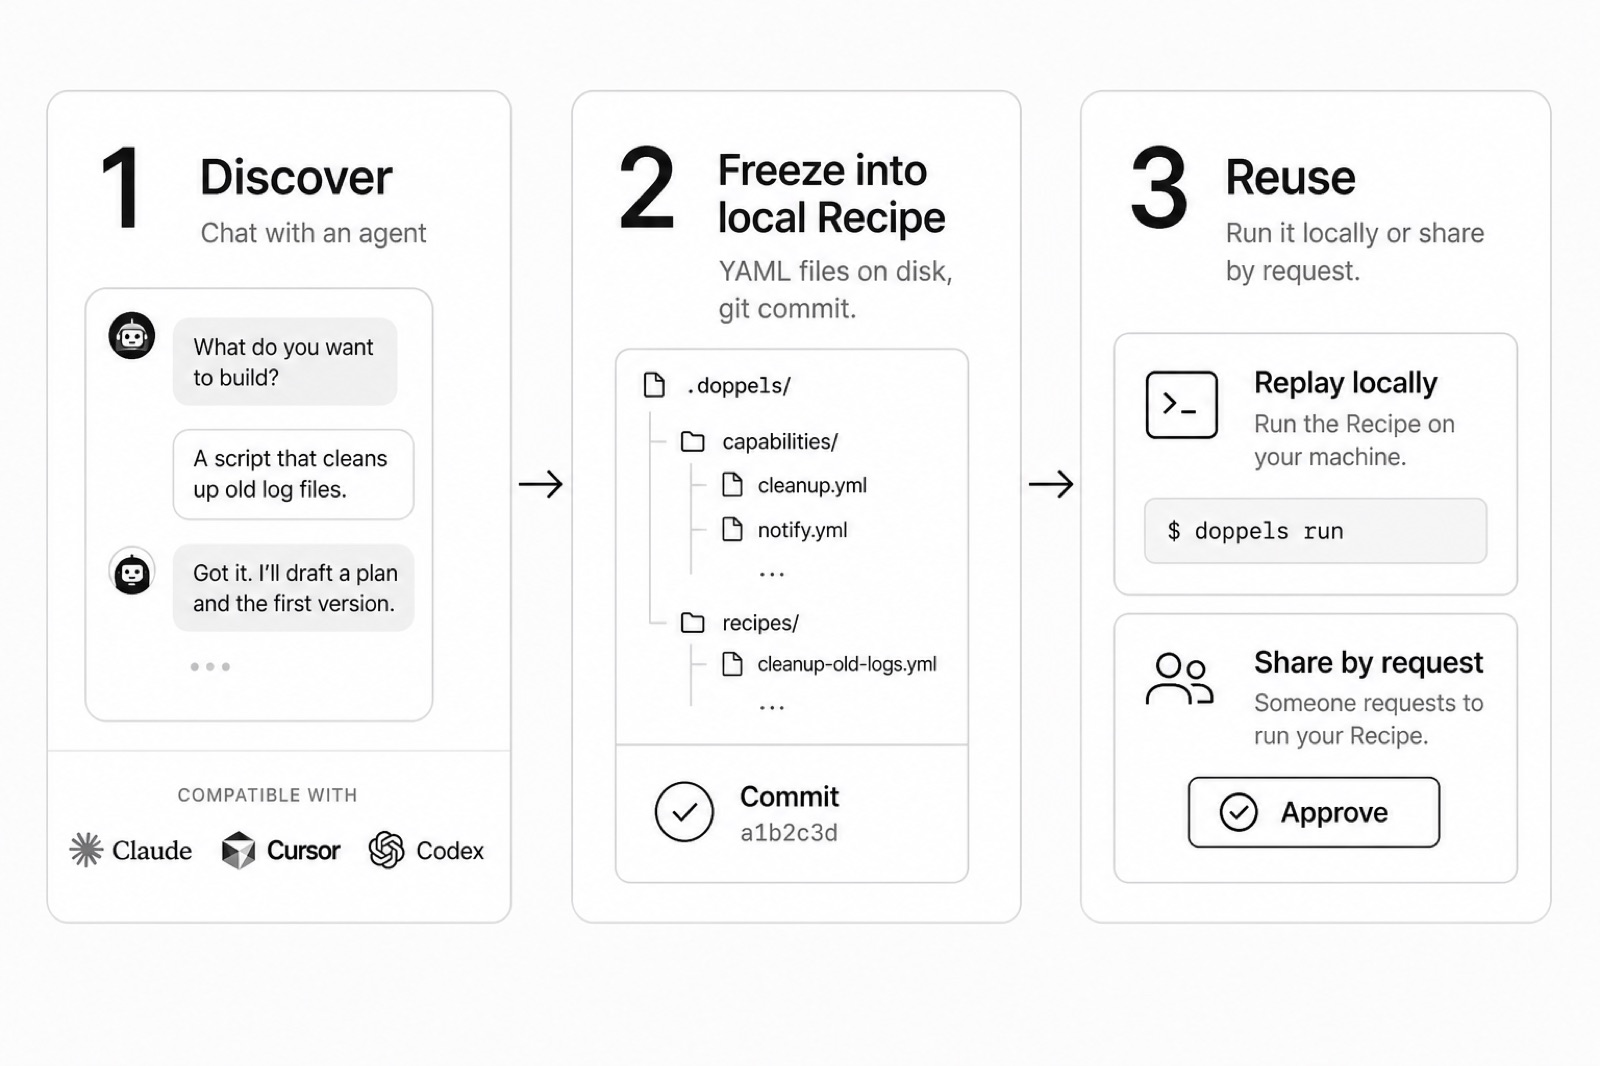
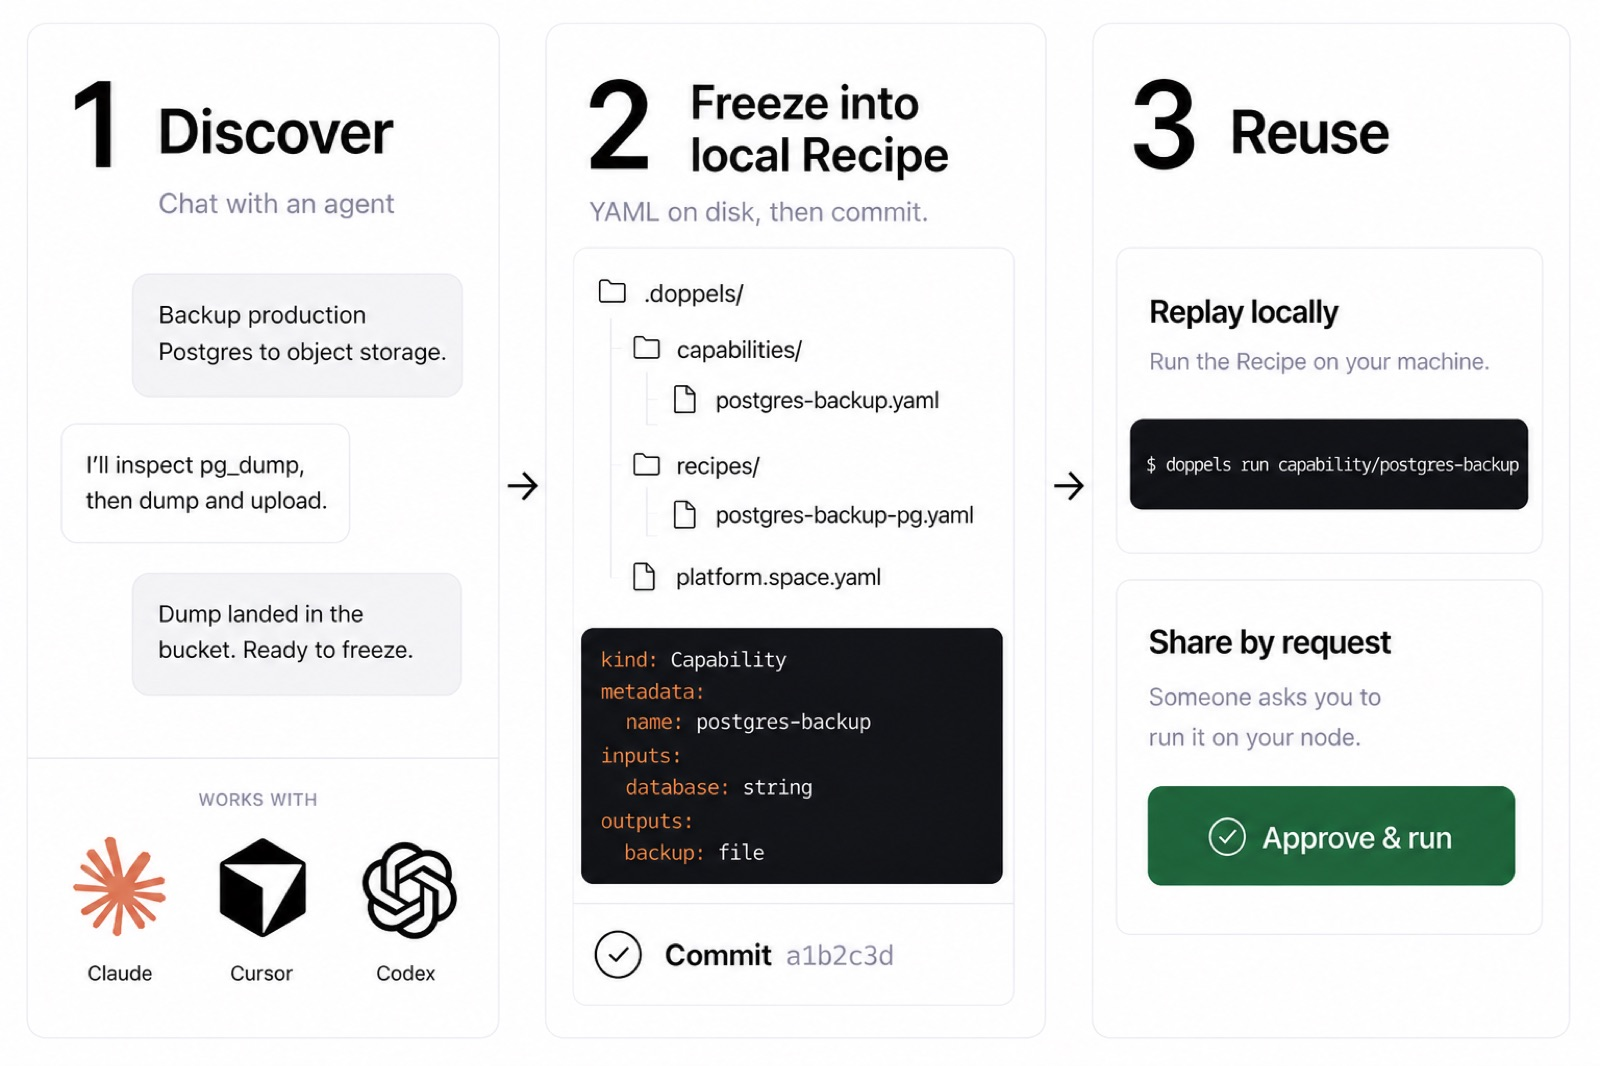
docs: two-panel hero and Share as day-one
Hero is agent session plus local replay. Share copy matches GA, not preview.

diff --git a/README.md b/README.md
@@ -30,7 +30,7 @@
 </p>
 
 <p align="center">
-  <img src="docs/images/hero-flow.jpg" alt="Four-step Doppels flow: an agent explores with tool calls, you say doppel freeze, doppels run replays locally, then a Share request is approved" width="100%">
+  <img src="docs/images/hero-flow.jpg" alt="Cursor-style agent session: inspect Postgres, pg_dump, user says doppel freeze; then doppels run replays the same path locally" width="100%">
 </p>
 
 ## Quick start
@@ -154,7 +154,7 @@ A freeze can describe:
 Review the YAML before you run it. Credentials stay on the host.
 
 <p align="center">
-  <img src="docs/images/recipe-in-editor.jpg" alt="Editor with capabilities/postgres-backup.yaml and recipes/postgres-backup-pg.yaml. Callouts: typed inputs, explicit tools, reviewed steps, declared outputs." width="100%">
+  <img src="docs/images/recipe-in-editor.jpg" alt="Dark editor on examples/quickstart: .doppels/capabilities/greet.yaml and recipes/greet.yaml. Callouts: typed inputs, explicit tools, reviewed steps, declared outputs." width="100%">
 </p>
 
 Schemas: [`schemas/`](schemas/). YAML reference: [docs](https://docs.doppels.so/reference/yaml-schemas).
@@ -164,7 +164,7 @@ Schemas: [`schemas/`](schemas/). YAML reference: [docs](https://docs.doppels.so/
 1. Use Claude Code, Cursor, Codex, or another supported agent to complete a task.
 2. Once the run succeeds, ask the agent to freeze it (`doppel freeze`). The [doppel-freeze skill](skills/doppel-freeze/SKILL.md) writes Capability + Recipe YAML.
 3. Review the generated files and commit them to Git.
-4. Replay locally with `doppels run`, or share as an approval-gated Capability (preview).
+4. Replay locally with `doppels run`, or share as an approval-gated Capability.
 
 ```text
 Agent explores → Successful run → Freeze (skill) → Capability + Recipe
@@ -173,7 +173,7 @@ Agent explores → Successful run → Freeze (skill) → Capability + Recipe
 ```
 
 <p align="center">
-  <img src="docs/images/how-it-works.jpg" alt="Three stages: Discover with a compatible agent, freeze into local YAML and commit, then reuse via doppels run or Share by request." width="100%">
+  <img src="docs/images/how-it-works.jpg" alt="Three stages: chat with an agent about a Postgres backup, freeze into local YAML, then reuse via doppels run or Share." width="100%">
 </p>
 
 ## Replay locally
@@ -201,10 +201,9 @@ Guide: [Validate and run](https://docs.doppels.so/guides/validate-and-run). CLI 
 
 ## Share the capability
 
-Share is a **preview** cloud feature. Enable it, then create a request link for a Capability:
+Share is included from day one, free. Create a request link for a Capability:
 
 ```bash
-doppels experimental on
 doppels share capability/postgres-backup
 ```
 
@@ -274,7 +273,7 @@ The kind of work freeze is meant to capture:
 Every published example should be executable and include its requirements, expected side effects, and test fixture.
 
 <p align="center">
-  <img src="docs/images/recipe-catalog.jpg" alt="Illustrative catalog of frozen Capabilities: postgres-backup selected with inputs and backup-file output." width="100%">
+  <img src="docs/images/recipe-catalog.jpg" alt="Catalog of Capabilities. postgres-backup selected with Run and Share link actions, dark YAML, and backup-file output." width="100%">
 </p>
 
 ## Honest limits
@@ -303,7 +302,7 @@ Freeze skill → Capability + Recipe files → Git
                        ↓
                   CLI / runtime → Local tools and environment
                        ↕
-              Optional share coordination (preview)
+              Share coordination
 ```
 
 The core model separates:
@@ -311,13 +310,13 @@ The core model separates:
 - **Discovery:** an agent explores and completes the task.
 - **Compilation:** the freeze skill converts the successful tool path into YAML.
 - **Execution:** the runtime validates inputs and invokes explicit Steps locally.
-- **Coordination:** optional sharing handles requests and approvals. Credentials and Steps stay on the node.
+- **Coordination:** Share handles requests and approvals. Credentials and Steps stay on the node.
 
 <p align="center">
-  <img src="docs/images/architecture.jpg" alt="Architecture: agent integration into the freeze skill, then OSS local CLI runtime, tools, YAML, and Git. Optional dashed cloud box for Share requests." width="100%">
+  <img src="docs/images/architecture.jpg" alt="Architecture: agent integration into the freeze skill, then OSS local CLI runtime, tools, YAML, and Git. Share coordinates requests; the node executes." width="100%">
 </p>
 
-This repository is the Apache-2.0 core: CLI, schemas, and agent skills. The hosted control plane is separate and optional.
+This repository is the Apache-2.0 core: CLI, schemas, and agent skills. Share ships from day one, free. Local `doppels run` still works on its own; Share uses the hosted control plane only to coordinate requests.
 
 ## Project status
 
